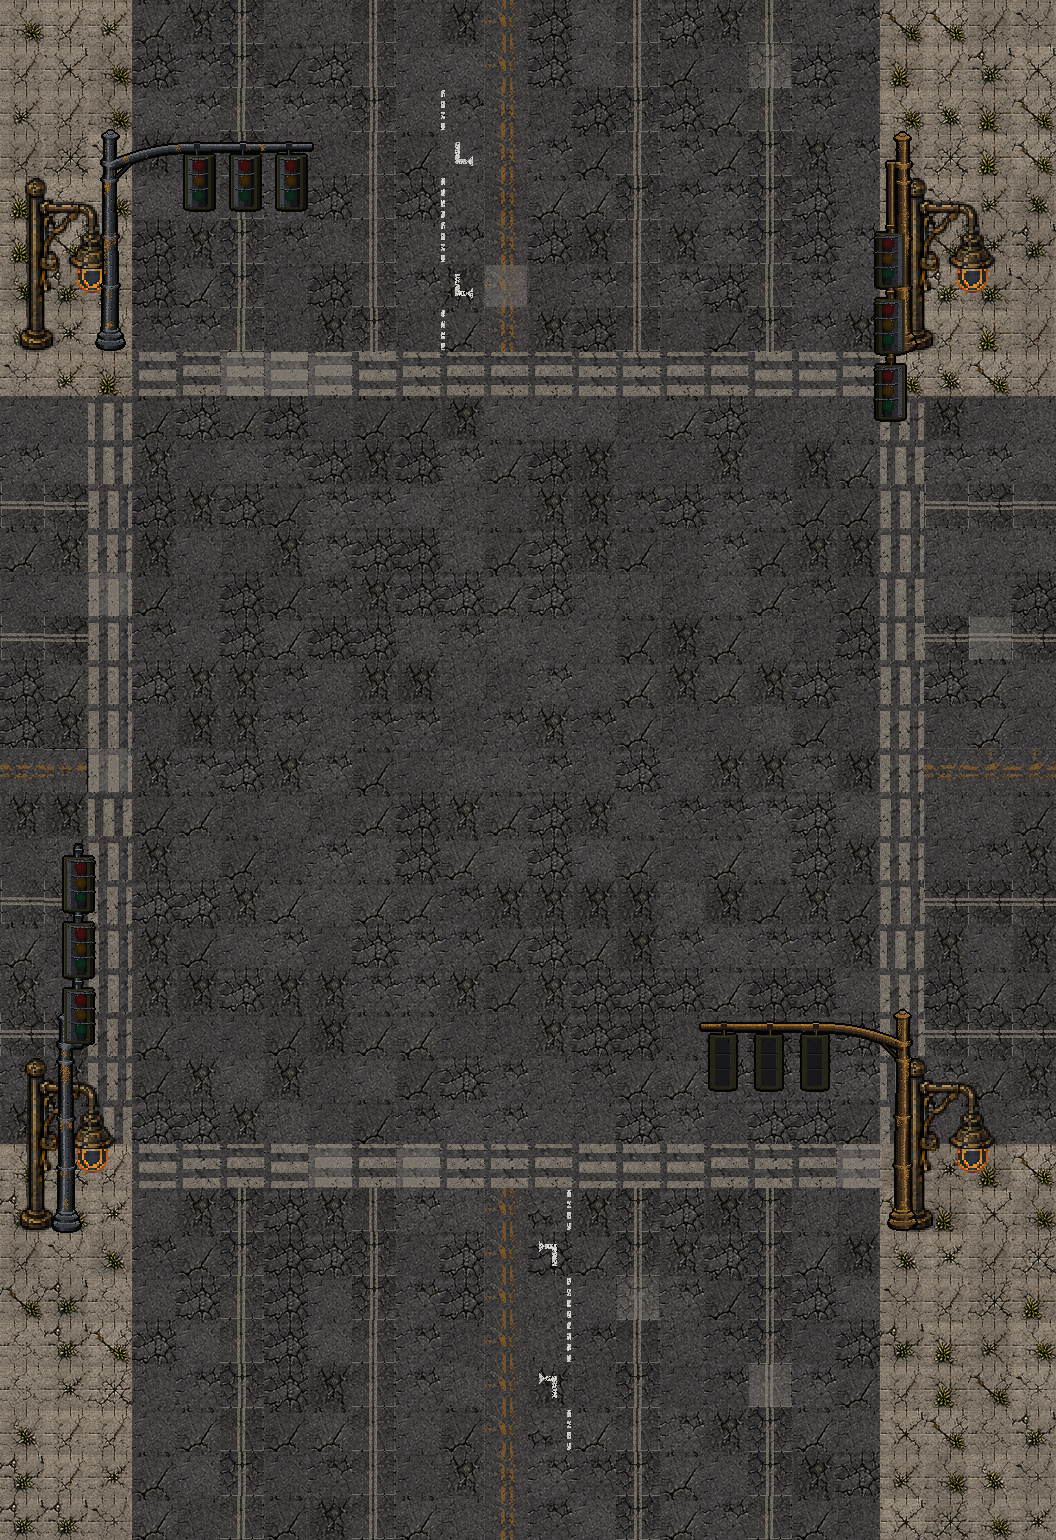
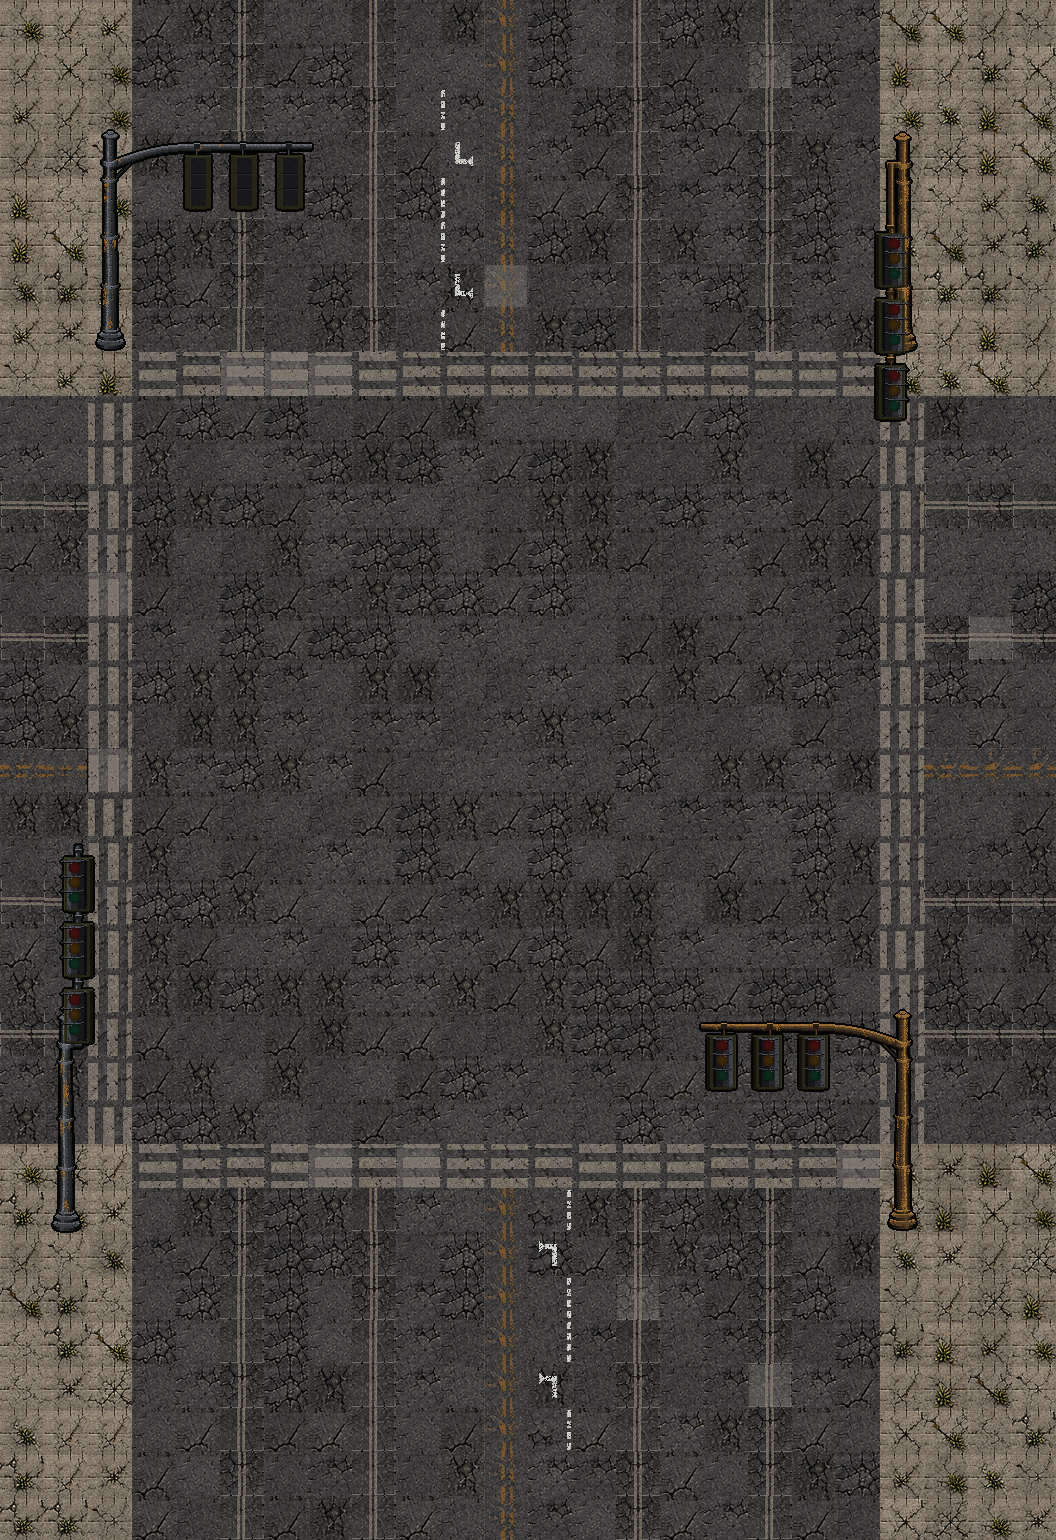
SIGNALS v13: one post per corner + every facing flipped (Paolo x2)
Two corrections from Paolo on the proof:

1. ONE POST PER CORNER: the bake was standing the engine's corner lamp
   AND a signal mast on the same corners. Wherever a signal stands, the
   lamp yields — the lamp composite now skips a 2-cell radius around
   every signal base.

2. THE FACING FLIP: "the direction the light is facing needs to be
   opposite on all." N side arms east showing BACKS, E side arms down
   with lights facing EAST, S side arms west with lenses VISIBLE, W
   side arms up with lights facing WEST — each mast serves the near
   approach beside it.

The flip exposed a real modeling gap: arm chirality and lens facing
are INDEPENDENT axes (the east-side pole carries its arm on the west
side while the lights face east). draw_signal_vert grew head_facing,
drawn both ways, so the bank covers all four arm-side x facing combos:
204 -> 300 sprites. ALL 18 GATES GREEN.

Claude-Session: https://claude.ai/code/session_01SDyT8dAr851cnRpBcrw9JJ

diff --git a/tools/bohemia_bake_factory.py b/tools/bohemia_bake_factory.py
@@ -239,23 +239,9 @@ def bake_intersection(lanes_ew, lanes_ns):
                 tile = tile.rotate(rot, expand=False)
             out.paste(tile, (x * T, y * T))
 
-    outa = out.convert('RGBA')
-    for y in range(H):
-        for x in range(24):
-            for p in blk['grid'][y][x]['props']:
-                if p['p'] != 'street_lamp':
-                    continue
-                art = img_of(lampbank[(x * 7 + y) % len(lampbank)]['b64'], 'RGBA')
-                dh = p['hTiles'] * T
-                dw = round(art.width * dh / art.height)
-                art = art.resize((dw, dh), Image.NEAREST)
-                outa.alpha_composite(art, (x * T + T // 2 - dw // 2, (y + 1) * T - dh))
-
-    # TRAFFIC SIGNALS (7/17 commission, UNJUDGED): composited here so this
-    # proof is their judging surface, exactly like the bold markings above.
-    # Proof placement only; engine prop placement waits for Paolo's approval.
-    # Anchor law from the bank: pole base bottom-left, arm extends right,
-    # mirror for the opposite approach. DEAD state: act-1 grid default.
+    # TRAFFIC SIGNALS (7/17 commission, UNJUDGED): composited so this proof
+    # is their judging surface. Proof placement only; engine prop placement
+    # waits for Paolo's approval. DEAD state: act-1 grid default.
     sigbank = json.load(open('banks/BOHEMIA_TRAFFIC_SIGNAL_CANDIDATES_7_17_26.txt'))
 
     def sig_pick(color, direction, face, arm_dir=None):
@@ -274,18 +260,40 @@ def bake_intersection(lanes_ew, lanes_ns):
     cwn = 0
     while blk['grid'][r1 + 1 + cwn][blk['meta']['medCol']]['g'] == 'crosswalk':
         cwn += 1
-    # THE FACING-THE-STREET ARRANGEMENT (Paolo's arrow sketch, 7/18): one
-    # mast per side, arms circling the intersection counterclockwise, and
-    # every mast's LIGHTS face the oncoming traffic on the road they hang
-    # over: N side arms east + lenses south (serves northbound), E side
-    # arms DOWN + lights west (serves eastbound), S side arms west + backs
-    # north (serves southbound), W side arms UP + lights east (westbound).
+    # THE FACING-THE-STREET ARRANGEMENT, corrected by Paolo 7/18 ("the
+    # direction the light is facing needs to be opposite on all"): one mast
+    # per side, arms circling counterclockwise, each mast's lights facing
+    # the NEAR approach on the road it hangs over: N side arms east + backs
+    # (its lenses point north at the southbound cars beside it), E side
+    # arms DOWN + lights east (eastbound arrives under it), S side arms
+    # west + lenses south-visible, W side arms UP + lights west.
     corners = (
-        (c0 - cwn, r0 - cwn - 1, sig_pick('galv', 'e', 's')),          # N: faces
-        (c1 + cwn, r0 - cwn - 1, sig_pick('bronze', 'w', 'w', 's')),   # E: arm down
-        (c1 + cwn, r1 + cwn + 1, sig_pick('bronze', 'w', 'n')),        # S: backs
-        (1, r1 + cwn + 1, sig_pick('galv', 'e', 'e', 'n')),            # W: arm up
+        (c0 - cwn, r0 - cwn - 1, sig_pick('galv', 'e', 'n')),          # N: backs
+        (c1 + cwn, r0 - cwn - 1, sig_pick('bronze', 'w', 'e', 's')),   # E: arm down
+        (c1 + cwn, r1 + cwn + 1, sig_pick('bronze', 'w', 's')),        # S: faces
+        (1, r1 + cwn + 1, sig_pick('galv', 'e', 'w', 'n')),            # W: arm up
     )
+
+    # ONE POST PER CORNER (Paolo 7/18): where a signal mast stands, the
+    # engine's corner lamp yields — no doubled furniture on the proof.
+    sig_cells = set()
+    for (cx2, cy2, _s) in corners:
+        for ddx in (-2, -1, 0, 1, 2):
+            for ddy in (-2, -1, 0, 1, 2):
+                sig_cells.add((cx2 + ddx, cy2 + ddy))
+
+    outa = out.convert('RGBA')
+    for y in range(H):
+        for x in range(24):
+            for p in blk['grid'][y][x]['props']:
+                if p['p'] != 'street_lamp' or (x, y) in sig_cells:
+                    continue
+                art = img_of(lampbank[(x * 7 + y) % len(lampbank)]['b64'], 'RGBA')
+                dh = p['hTiles'] * T
+                dw = round(art.width * dh / art.height)
+                art = art.resize((dw, dh), Image.NEAREST)
+                outa.alpha_composite(art, (x * T + T // 2 - dw // 2, (y + 1) * T - dh))
+
     for (cx2, cy2, s) in corners:
         if 0 <= cy2 < H and 0 <= cx2 < 24:
             art = img_of(s['b64'], 'RGBA')

diff --git a/tools/bohemia_traffic_signal_factory.py b/tools/bohemia_traffic_signal_factory.py
@@ -510,7 +510,10 @@ def draw_signal_vert(K, spec, seed):
     the EW road, which on screen is VERTICAL. Same mast; the arm runs up
     (north, arm_dir n) or down (south, arm_dir s) from the junction, full
     map length (arm_cells * T, the ARM LAW on the grid), with the full-mass
-    heads hanging along it. Drawn face-east; the mirror makes face-west.
+    heads hanging along it. spec['head_facing'] (+1 east / -1 west) is
+    INDEPENDENT of the arm side, because a pole east of its road carries
+    the arm on its west side while the lights can still face east (the
+    v13 lesson: arm chirality and lens facing are separate axes).
     Returns (array, base_y)."""
     r = rng(seed)
     kind = spec['kind']
@@ -548,7 +551,8 @@ def draw_signal_vert(K, spec, seed):
         hline(a, ax - 3, ax + 4, cy - 1, K['spec'] if r() < 0.5 else K['ramp'][3])
         vline(a, ax - 1, cy + 3, cy + 9, K['ramp'][1], 2)
         vline(a, ax - 1, cy + 3, cy + 9, K['ramp'][3], 1)
-        draw_head(a, K, ax - 11, cy + 9, spec['state'], r, facing=1)
+        draw_head(a, K, ax - 11, cy + 9, spec['state'], r,
+                  facing=spec.get('head_facing', 1))
     drips(a, K, r, pcx - 5, pcx + 5, junction_y + 8, n=2)
     outline_pass(a, K['outline'])
     outline_pass(a, (5, 5, 5))
@@ -748,16 +752,20 @@ def main():
                                  arm,
                                  81000 + ci * 7919 + ai * 761 + fi * 373 +
                                  STATE_SEED[state] * 131))
-            # v12: east/west-facing masts arm UP or DOWN the screen (the arm
-            # spans the EW road); drawn face-east, mirrored to face-west
+            # v12-v13: east/west-facing masts arm UP or DOWN the screen (the
+            # arm spans the EW road); head facing is drawn BOTH ways because
+            # arm chirality and lens facing are independent axes
             for di, arm_dir in enumerate(('n', 's')):
-                for state in ('dead', 'red', 'amber', 'green'):
-                    jobs.append(('v', color, {'arm_cells': cells, 'heads': heads,
-                                              'kind': 'intact', 'state': state,
-                                              'face': 'e', 'arm_dir': arm_dir},
-                                 arm,
-                                 91000 + ci * 7919 + ai * 761 + di * 449 +
-                                 STATE_SEED[state] * 131))
+                for hi, hf in enumerate((1, -1)):
+                    for state in ('dead', 'red', 'amber', 'green'):
+                        jobs.append(('v', color, {'arm_cells': cells, 'heads': heads,
+                                                  'kind': 'intact', 'state': state,
+                                                  'face': 'e' if hf > 0 else 'w',
+                                                  'arm_dir': arm_dir,
+                                                  'head_facing': hf},
+                                     arm,
+                                     91000 + ci * 7919 + ai * 761 + di * 449 +
+                                     hi * 239 + STATE_SEED[state] * 131))
         for wi, (kind, cells) in enumerate(WRECKS):
             jobs.append(('h', color, {'arm_cells': cells,
                                       'heads': 2 if kind == 'jury_rigged' else 3,

diff --git a/00_START_HERE_NEXT_SESSION.md b/00_START_HERE_NEXT_SESSION.md
@@ -126,8 +126,15 @@ DAY ONE IN ONE BREATH (details + lessons in STATE_OF_PLAY 7/17):
    + lights west (eastbound), S side arms west + backs north
    (southbound), W side arms UP + lights east (westbound). The proof
    stands exactly these four; this is the placement law the engine
-   wiring will follow once Paolo approves the art. 204 sprites total,
-   all UNJUDGED. Laws:
+   wiring will follow once Paolo approves the art. CORRECTED same
+   night (Paolo): (1) ONE POST PER CORNER — the engine's corner lamp
+   yields wherever a signal mast stands; (2) every facing FLIPPED to
+   the near approach: N side backs, E side lights east, S side faces,
+   W side lights west. That flip exposed that arm chirality and lens
+   facing are INDEPENDENT axes (a pole east of its road carries the arm
+   west while lights still face east), so the vertical drawer grew
+   head_facing and the bank now carries all four arm-side x facing
+   combos. 300 sprites total, all UNJUDGED. Laws:
    DEAD is default (act-1 grid pending), lit lenses rgb-only glow, sign
    plates ILLEGIBLE (names are Paolo's), zero purple. STATUS: UNJUDGED.
    Two dead-state masts are composited onto the intersection proof (SW